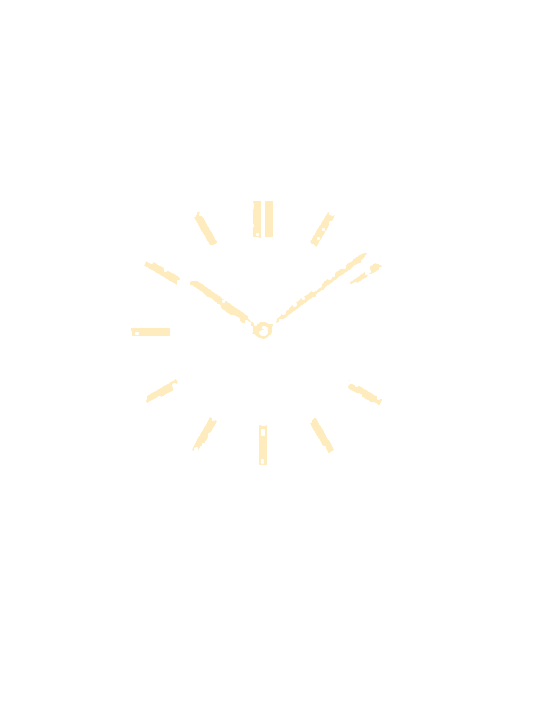
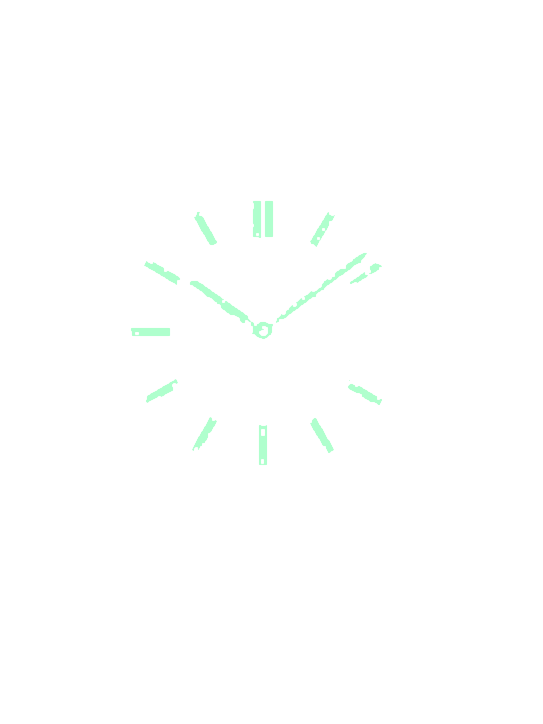
Leuchtmasse einheitlich: neue Uhren gleich hell wie die Submariner, Vintage-Uhren (15) 20 % schwächer und im gleichen Grün; Einzeldämpfungen entfernt, Neuauflagen als neue Uhren behandelt
Claude-Session: https://claude.ai/code/session_01Wip4uNf6vaKskYPqRYzAdm

diff --git a/index.html b/index.html
@@ -527,7 +527,7 @@ canvas.wlume { mix-blend-mode: screen; filter: brightness(1.15) drop-shadow(0 0 
 img.wlume-img { position: absolute; z-index: 3; left: 0; right: 0; top: 4px; width: 100%; height: calc(100% - 8px); object-fit: contain; pointer-events: none; opacity: 0; transition: opacity 1.1s ease-in-out; will-change: opacity; }
 img.wlume-img { mix-blend-mode: screen; filter: brightness(1.15) drop-shadow(0 0 .8px rgba(var(--lc1), 1)) drop-shadow(0 0 2.2px rgba(var(--lc1), .95)) drop-shadow(0 0 6px rgba(var(--lc2), .8)) drop-shadow(0 0 14px rgba(var(--lc3), .45)); animation: lumeglow 5s ease-in-out infinite; animation-play-state: paused; }
 :root.night img.wlume-img { opacity: 1; animation-play-state: running; }
-:root.night .wimg-wrap[data-lc="v"] img.wlume-img { opacity: .62; } /* Vintage (Tritium/Radium): gealterte Leuchtmasse etwas schwächer */
+:root.night .wimg-wrap[data-lc="v"] img.wlume-img, :root.night .wimg-wrap[data-lc="v"] canvas.wlume { opacity: .8; } /* Vintage (Tritium/Radium): gealterte Leuchtmasse etwas schwächer */
 :root.night .wimg-wrap[data-lo] img.wlume-img { opacity: var(--lo); } /* einzelne Bilder mit besonders stark gealterter Leuchtmasse */
 .wimg-wrap[data-lc="v"] { --lc1: 120,235,165; --lc2: 70,220,135; --lc3: 50,190,115; }
 @media (prefers-reduced-motion: reduce) { img.wlume-img { animation: none !important; } }
@@ -1239,9 +1239,9 @@ const BRAND_STYLE = {
   "Laco": { s: 6, w: 700, ls: 1.6, o: "" }
 };
 
-const IMGV = "2026112664";
+const IMGV = "2026112665";
 // Leuchtstärke einzelner Bilder (Deckkraft der Leuchtebene nachts), z. B. sehr alte Tritium-Leuchtmasse
-const LUME_OP = { "patek-philippe-nautilus-3700-1a.jpg": .34, "rolex-air-king-5500.jpg": .34 }; // bei neuen Bildern hochzählen (Cache)
+const LUME_OP = {}; // bei neuen Bildern hochzählen (Cache)
 function drawWatch(v = {}, e = null) {
   if (v.img) {
     const base = `<img class="watch wimg" src="${v.img}?v=${IMGV}" alt="${esc(((e && (e.brand + " " + e.t)) || "Uhr"))}" loading="lazy">`;
@@ -2381,7 +2381,7 @@ function viewCategory(c) {
 }
 
 // Changelog: Entwicklung von WikiTicks seit dem ersten Entwurf (Änderungen und Ideen des Erstellers)
-const CHANGELOG = [["22. November 2026", "Der erste Entwurf", ["Start: Aus einer einzelnen HTML-Datei entsteht die Website WikiTicks, veröffentlicht über GitHub und Hostinger.", "Mehr Uhrenmodelle; das Layout nutzt breite Bildschirme besser aus.", "Höchstens drei Bilder pro Beitrag: eines oben, weitere dort, wo der Text über Varianten spricht."]], ["22. November 2026", "Gezeichnete Uhren im Detail", ["Armbänder wie im Original: Oyster-Band mit schmaleren Außengliedern, eigenes Band für die Speedmaster, breitere Bänder in Gehäusefarbe.", "Bandanstöße (Flanken) je Modell: kantig bei neuen Rolex, rund bei der Speedmaster, Unterschied zwischen alten und neuen Rolex-Gehäusen.", "Kronen weiter ins Gehäuse, Kronenschutz bei neuen und kleiner bei alten Rolex, angewinkelte Drücker bei Chronographen.", "Lünettenzahlen laufen im Kreis mit; Royal Oak mit verschraubter Lünette, Schlitze im Kreis, weichen Kanten und fließendem Band; Sky-Dweller mit großem Ring.", "Explorer II: 1655, 16570 »Polar« und 226570 mit korrekten Indizes, Zeigern, Lünette und Schriftzügen."]], ["22. November 2026", "Wissen und Preise", ["Deutlich tiefere Texte, mehr Expertenwissen, ausgebaute Markenartikel.", "Preisentwicklung erst testweise bei der Explorer II, dann bei allen Modellen: Listen- und Gebrauchtpreise, auch Vintage-Listenpreise, immer in Euro.", "Artikel und Uhr des Tages mit kurzer Zusammenfassung, mobil mit Bild unter der Überschrift und kürzerer Vorschau.", "Wissenswertes mit täglich neuer Auswahl; neue Lexikonartikel und Persönlichkeiten.", "Kachel- oder Listenansicht per Symbol."]], ["23. November 2026", "Prüfen, ordnen, Fotos", ["Doppelt so viele Modelle, Texte auf einheitliches Niveau, Doppelungen und Fehler korrigiert.", "Knopf auf den Markenseiten springt direkt zu den Modellen.", "Zwischenpreise erscheinen beim Überfahren der Preislinie; historische Preislisten (1985, 1990, 2004) eingearbeitet.", "Statt Zeichnungen: echte Uhrenbilder aus dem Ordner assets/watches, nach und nach für fast alle Modelle, mit Korrekturen wie der 16570 »Polar« oder der »Starbucks«.", "Zurück-Navigation landet an derselben Stelle der Seite.", "Artikel des Tages öfter ein Lexikonartikel, Uhr des Tages öfter eine Luxusuhr."]], ["23.–24. November 2026", "Nachtmodus mit Leuchtmasse", ["Idee: Im Nachtmodus werden die Uhren abgedunkelt und leuchten wie im Dunkeln.", "Leuchtmasse für jede Uhr einzeln vermessen: nur Indizes und Leuchtfüllung der Zeiger, eingefasste Indizes, runde Punkte rund, gealterte Vintage-Leuchtmasse schwächer.", "Leichter Glow an der Leuchtmasse; Uhren ohne Leuchtmasse werden sanft von oben angestrahlt.", "Nachtmodus-Knopf als moderne Mondphase, die beim Umschalten einmal herumwandert; weiche Übergänge für Seite, Schrift und Uhren.", "Kleine Uhr im Kopf läuft genau, leuchtet nachts und schlägt groß mit 4 Hz; daneben ein ewiger Kalender im gleichen Stil.", "»Ticks« im Logo leuchtet in der Farbe des gewählten Menüpunkts."]], ["24. November 2026", "Navigation, Favoriten, Lexikon", ["Markenlogos auf den Markenseiten; Bildvergrößerung per Klick bei hoher Auflösung.", "Neue Artikel, etwa über James Bond, Leuchtmasse und Uhrenpreise; Zwischenüberschriften in den Modellartikeln, Bilder unter den passenden Absätzen.", "Mondphasen-Artikel mit Illustration wie im Nachtmodus-Knopf, aktueller Mondphase und Regler zum Einstellen.", "Mobiles Menü: fährt weich auf, läuft beim Scrollen als Leiste mit, Farbwahl und Suche darin.", "Favoriten für alle Beiträge; »heiße« Marken mit Flamme im Menü.", "»Über dieses Bild«: Aufklapper mit genauer Bildbeschreibung, wie eine Datumslupe über dem Text."]], ["24. November 2026", "Artikel zusammenführen und vertiefen", ["Varianten in den Grundartikel: Royal Oak Chronograph und Ewiger Kalender in die Royal Oak, Black Bay 58 und 54 in die Black Bay u. a.", "Lexikon-Knöpfe unter passenden Absätzen statt vieler Links im Text.", "Mehr Geschichten und tiefere Informationen, etwa welches Gold eine Day-Date hat; Komplikationen mit Abschnitt »So funktioniert es« und neuen Schemazeichnungen.", "Infoseite »Über WikiTicks« am Ende der Seite und im Menü."]], ["24. November 2026", "Uhrenvergleich und Datenblätter", ["Seite Uhrenvergleich: bis zu drei Uhren nebeneinander, Ausführung per Dropdown wählbar.", "Eigene Datenblätter für alle Uhren und Referenzen, nur im Vergleich und im Aufklapper der Referenztabelle; »keine Angabe« in Grau statt Strich.", "Referenznummern zu allen Bildern, gezeigt unter dem Bild und im Text; erfundene Modelle entfernt.", "Artikel und Uhr des Tages wechseln um Mitternacht, Wissenswertes alle drei Stunden; Kacheln für Lexikon, Marken, Vergleich und Favoriten."]], ["24. November 2026", "Neue Bilder", ["Reverso halb gewendet, Longines Kalender-Chronograph Ref. 6817 (um 1960, Schätzwert 3.500–5.000 €), Vacheron im Stil der 1950er, neue GMT-Master 1675.", "Artikel »GMT-Master II« wird zu »Rolex GMT-Master«; »Sprite« in Weißgold ergänzt.", "Die Seite folgt dem Dunkelmodus von Smartphone oder PC."]], ["24.–25. November 2026", "Der Vintage-Modus", ["Idee: ein Knopf, der alle Hauptbilder durch die früheste Vintage-Ausführung ersetzt, auch bei originalgetreuen Neuauflagen.", "Vintage-Bilder ergänzt: Submariner 5513, Nautilus 3700/1A, Air-King 5500, »Bubbleback«, Visodate, Datejust 1601 in Creme.", "Look im Stil einer Uhr der 1960er: Sonnenschliff, Kacheln wie Zifferblätter unter Glas, Stabindizes, Tritiumpunkte, Tageskacheln wie altes Zeitungspapier.", "Nachts das Grün der Leuchtmasse für Schrift, Kachelränder und Leuchten, Farbwechsler weiter nutzbar.", "Markenseiten zeigen nur Uhren mit Vintage-Bild; Uhr des Tages nur aus dieser Auswahl.", "Knopf mit Zifferblatt, das beim Umschalten zurückdreht und vom hellblauen modernen Blatt auf das Vintage-Blatt wechselt."]], ["25. November 2026", "Fließende Übergänge", ["Kacheln leuchten beim Überfahren oder Antippen, nachts auch im Heute-Modus.", "Farbwechsel fließend: nachts erlischt die Farbe und leuchtet in der neuen wieder auf.", "Wechsel Heute ⇄ Vintage: die Uhr versinkt in der Dunkelheit und taucht in der anderen Ausführung wieder auf, Leuchtmasse und Kachelleuchten im selben Takt.", "Tag ⇄ Nacht als weiche Überblendung der ganzen Seite, Uhren gleichzeitig mit der Seite dunkel und hell, in beiden Modi gleich lang.", "Viele Feinheiten für das iPhone: kein Verrutschen, kein Aufploppen, kein Kasten um die Uhr.", "Mondschein im Nachtmodus, auf Smartphone und PC gleich.", "Changelog als eigener Artikel, erreichbar über »Über WikiTicks«."]], ["25. November 2026", "Ansichten und Größen", ["Markenseiten mit dritter Ansicht der Modelle: am PC groß untereinander, auf dem Smartphone zwei nebeneinander.", "Leuchtmasse der GMT-Master 1675 und der Submariner 5513 in Farbe und Stärke wie bei der Sea-Dweller 1665.", "Alle Uhren mittig in ihren Kacheln und maßstabsgetreu nach Gehäusedurchmesser, Bezug Submariner mit 41 mm; runde Gehäuse werden an der Lünette vermessen.", "Neue Änderungen werden ab jetzt automatisch hier im Changelog ergänzt."]]];
+const CHANGELOG = [["22. November 2026", "Der erste Entwurf", ["Start: Aus einer einzelnen HTML-Datei entsteht die Website WikiTicks, veröffentlicht über GitHub und Hostinger.", "Mehr Uhrenmodelle; das Layout nutzt breite Bildschirme besser aus.", "Höchstens drei Bilder pro Beitrag: eines oben, weitere dort, wo der Text über Varianten spricht."]], ["22. November 2026", "Gezeichnete Uhren im Detail", ["Armbänder wie im Original: Oyster-Band mit schmaleren Außengliedern, eigenes Band für die Speedmaster, breitere Bänder in Gehäusefarbe.", "Bandanstöße (Flanken) je Modell: kantig bei neuen Rolex, rund bei der Speedmaster, Unterschied zwischen alten und neuen Rolex-Gehäusen.", "Kronen weiter ins Gehäuse, Kronenschutz bei neuen und kleiner bei alten Rolex, angewinkelte Drücker bei Chronographen.", "Lünettenzahlen laufen im Kreis mit; Royal Oak mit verschraubter Lünette, Schlitze im Kreis, weichen Kanten und fließendem Band; Sky-Dweller mit großem Ring.", "Explorer II: 1655, 16570 »Polar« und 226570 mit korrekten Indizes, Zeigern, Lünette und Schriftzügen."]], ["22. November 2026", "Wissen und Preise", ["Deutlich tiefere Texte, mehr Expertenwissen, ausgebaute Markenartikel.", "Preisentwicklung erst testweise bei der Explorer II, dann bei allen Modellen: Listen- und Gebrauchtpreise, auch Vintage-Listenpreise, immer in Euro.", "Artikel und Uhr des Tages mit kurzer Zusammenfassung, mobil mit Bild unter der Überschrift und kürzerer Vorschau.", "Wissenswertes mit täglich neuer Auswahl; neue Lexikonartikel und Persönlichkeiten.", "Kachel- oder Listenansicht per Symbol."]], ["23. November 2026", "Prüfen, ordnen, Fotos", ["Doppelt so viele Modelle, Texte auf einheitliches Niveau, Doppelungen und Fehler korrigiert.", "Knopf auf den Markenseiten springt direkt zu den Modellen.", "Zwischenpreise erscheinen beim Überfahren der Preislinie; historische Preislisten (1985, 1990, 2004) eingearbeitet.", "Statt Zeichnungen: echte Uhrenbilder aus dem Ordner assets/watches, nach und nach für fast alle Modelle, mit Korrekturen wie der 16570 »Polar« oder der »Starbucks«.", "Zurück-Navigation landet an derselben Stelle der Seite.", "Artikel des Tages öfter ein Lexikonartikel, Uhr des Tages öfter eine Luxusuhr."]], ["23.–24. November 2026", "Nachtmodus mit Leuchtmasse", ["Idee: Im Nachtmodus werden die Uhren abgedunkelt und leuchten wie im Dunkeln.", "Leuchtmasse für jede Uhr einzeln vermessen: nur Indizes und Leuchtfüllung der Zeiger, eingefasste Indizes, runde Punkte rund, gealterte Vintage-Leuchtmasse schwächer.", "Leichter Glow an der Leuchtmasse; Uhren ohne Leuchtmasse werden sanft von oben angestrahlt.", "Nachtmodus-Knopf als moderne Mondphase, die beim Umschalten einmal herumwandert; weiche Übergänge für Seite, Schrift und Uhren.", "Kleine Uhr im Kopf läuft genau, leuchtet nachts und schlägt groß mit 4 Hz; daneben ein ewiger Kalender im gleichen Stil.", "»Ticks« im Logo leuchtet in der Farbe des gewählten Menüpunkts."]], ["24. November 2026", "Navigation, Favoriten, Lexikon", ["Markenlogos auf den Markenseiten; Bildvergrößerung per Klick bei hoher Auflösung.", "Neue Artikel, etwa über James Bond, Leuchtmasse und Uhrenpreise; Zwischenüberschriften in den Modellartikeln, Bilder unter den passenden Absätzen.", "Mondphasen-Artikel mit Illustration wie im Nachtmodus-Knopf, aktueller Mondphase und Regler zum Einstellen.", "Mobiles Menü: fährt weich auf, läuft beim Scrollen als Leiste mit, Farbwahl und Suche darin.", "Favoriten für alle Beiträge; »heiße« Marken mit Flamme im Menü.", "»Über dieses Bild«: Aufklapper mit genauer Bildbeschreibung, wie eine Datumslupe über dem Text."]], ["24. November 2026", "Artikel zusammenführen und vertiefen", ["Varianten in den Grundartikel: Royal Oak Chronograph und Ewiger Kalender in die Royal Oak, Black Bay 58 und 54 in die Black Bay u. a.", "Lexikon-Knöpfe unter passenden Absätzen statt vieler Links im Text.", "Mehr Geschichten und tiefere Informationen, etwa welches Gold eine Day-Date hat; Komplikationen mit Abschnitt »So funktioniert es« und neuen Schemazeichnungen.", "Infoseite »Über WikiTicks« am Ende der Seite und im Menü."]], ["24. November 2026", "Uhrenvergleich und Datenblätter", ["Seite Uhrenvergleich: bis zu drei Uhren nebeneinander, Ausführung per Dropdown wählbar.", "Eigene Datenblätter für alle Uhren und Referenzen, nur im Vergleich und im Aufklapper der Referenztabelle; »keine Angabe« in Grau statt Strich.", "Referenznummern zu allen Bildern, gezeigt unter dem Bild und im Text; erfundene Modelle entfernt.", "Artikel und Uhr des Tages wechseln um Mitternacht, Wissenswertes alle drei Stunden; Kacheln für Lexikon, Marken, Vergleich und Favoriten."]], ["24. November 2026", "Neue Bilder", ["Reverso halb gewendet, Longines Kalender-Chronograph Ref. 6817 (um 1960, Schätzwert 3.500–5.000 €), Vacheron im Stil der 1950er, neue GMT-Master 1675.", "Artikel »GMT-Master II« wird zu »Rolex GMT-Master«; »Sprite« in Weißgold ergänzt.", "Die Seite folgt dem Dunkelmodus von Smartphone oder PC."]], ["24.–25. November 2026", "Der Vintage-Modus", ["Idee: ein Knopf, der alle Hauptbilder durch die früheste Vintage-Ausführung ersetzt, auch bei originalgetreuen Neuauflagen.", "Vintage-Bilder ergänzt: Submariner 5513, Nautilus 3700/1A, Air-King 5500, »Bubbleback«, Visodate, Datejust 1601 in Creme.", "Look im Stil einer Uhr der 1960er: Sonnenschliff, Kacheln wie Zifferblätter unter Glas, Stabindizes, Tritiumpunkte, Tageskacheln wie altes Zeitungspapier.", "Nachts das Grün der Leuchtmasse für Schrift, Kachelränder und Leuchten, Farbwechsler weiter nutzbar.", "Markenseiten zeigen nur Uhren mit Vintage-Bild; Uhr des Tages nur aus dieser Auswahl.", "Knopf mit Zifferblatt, das beim Umschalten zurückdreht und vom hellblauen modernen Blatt auf das Vintage-Blatt wechselt."]], ["25. November 2026", "Fließende Übergänge", ["Kacheln leuchten beim Überfahren oder Antippen, nachts auch im Heute-Modus.", "Farbwechsel fließend: nachts erlischt die Farbe und leuchtet in der neuen wieder auf.", "Wechsel Heute ⇄ Vintage: die Uhr versinkt in der Dunkelheit und taucht in der anderen Ausführung wieder auf, Leuchtmasse und Kachelleuchten im selben Takt.", "Tag ⇄ Nacht als weiche Überblendung der ganzen Seite, Uhren gleichzeitig mit der Seite dunkel und hell, in beiden Modi gleich lang.", "Viele Feinheiten für das iPhone: kein Verrutschen, kein Aufploppen, kein Kasten um die Uhr.", "Mondschein im Nachtmodus, auf Smartphone und PC gleich.", "Changelog als eigener Artikel, erreichbar über »Über WikiTicks«."]], ["25. November 2026", "Ansichten und Größen", ["Markenseiten mit dritter Ansicht der Modelle: am PC groß untereinander, auf dem Smartphone zwei nebeneinander.", "Leuchtmasse der GMT-Master 1675 und der Submariner 5513 in Farbe und Stärke wie bei der Sea-Dweller 1665.", "Alle Uhren mittig in ihren Kacheln und maßstabsgetreu nach Gehäusedurchmesser, Bezug Submariner mit 41 mm; runde Gehäuse werden an der Lünette vermessen.", "Leuchtmasse überall einheitlich: alle neuen Uhren leuchten gleich hell wie die Submariner, alle Vintage-Uhren 20 % schwächer und im gleichen Grün.", "Neue Änderungen werden ab jetzt automatisch hier im Changelog ergänzt."]]];
 function viewChangelog() {
   return crumbs([["Startseite", ""], ["Über WikiTicks", "info"], ["Changelog"]]) + `
     <article class="infopage changelog">
